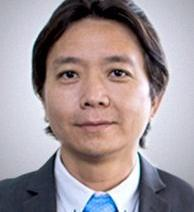
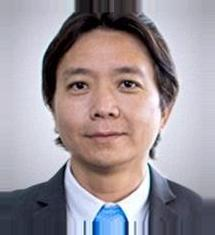
Shrink Ong photo by 0.9x and add OpenReview submission site

diff --git a/index.html b/index.html
@@ -420,7 +420,7 @@
           <li>Foundation model alignment through optimization</li>
           <li>Benchmarks for multi-objective AI evaluation</li>
         </ul>
-        <p><strong>Submission site:</strong> TBD</p>
+        <p><strong>Submission site:</strong> <a href="https://openreview.net/group?id=AAAI.org/2027/Workshop/MultiRobust" target="_blank">OpenReview - AAAI 2027 Workshop MultiRobust</a></p>
         <p>The workshop will be held in a <strong>hybrid format</strong>, allowing both in-person and virtual participation. At least one author of each accepted paper must register for the workshop and present their work. Virtual/Remote Attendance will be available to everyone who has registered for the event.</p>
 
         <!-- Workshop Organizers Section -->
